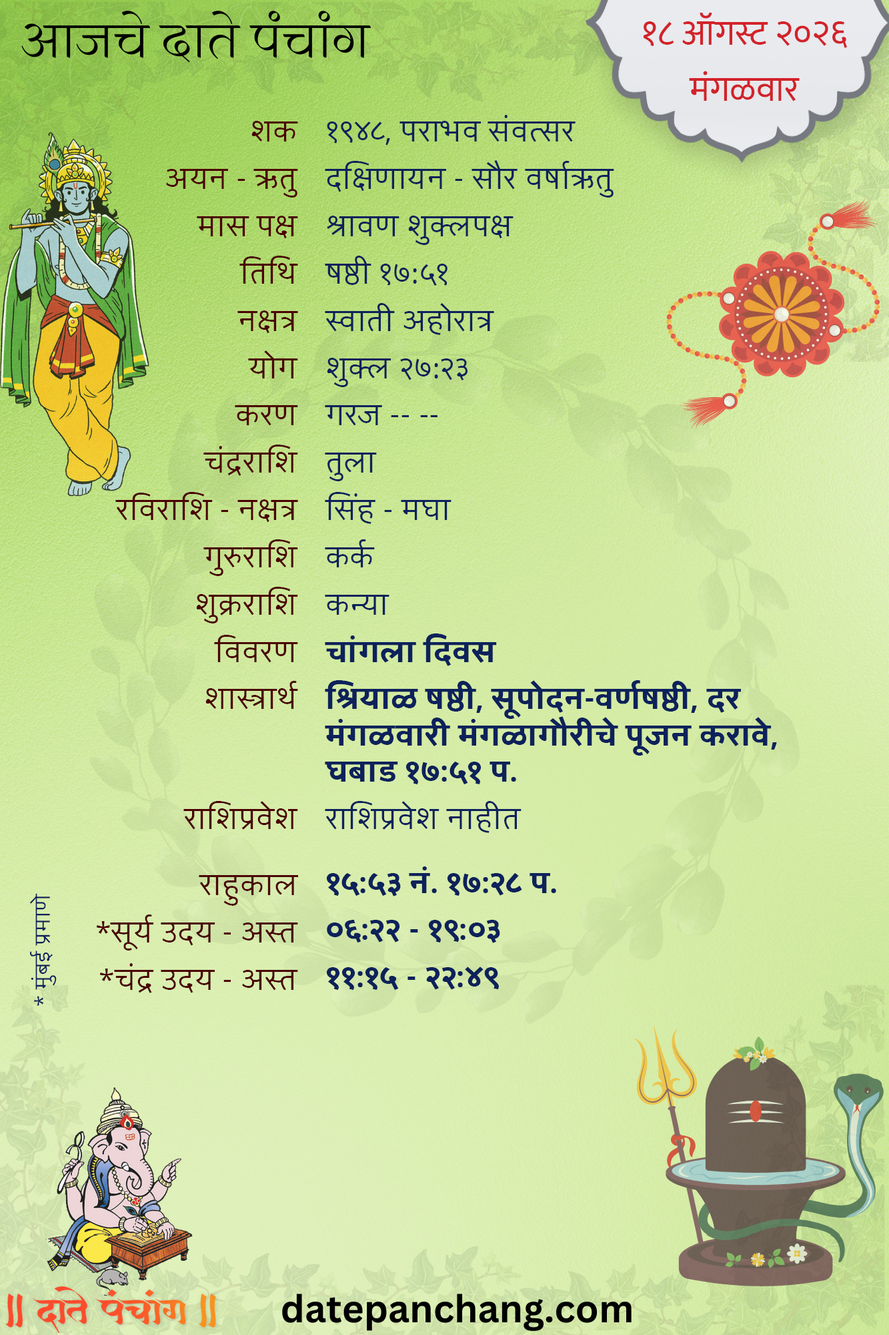
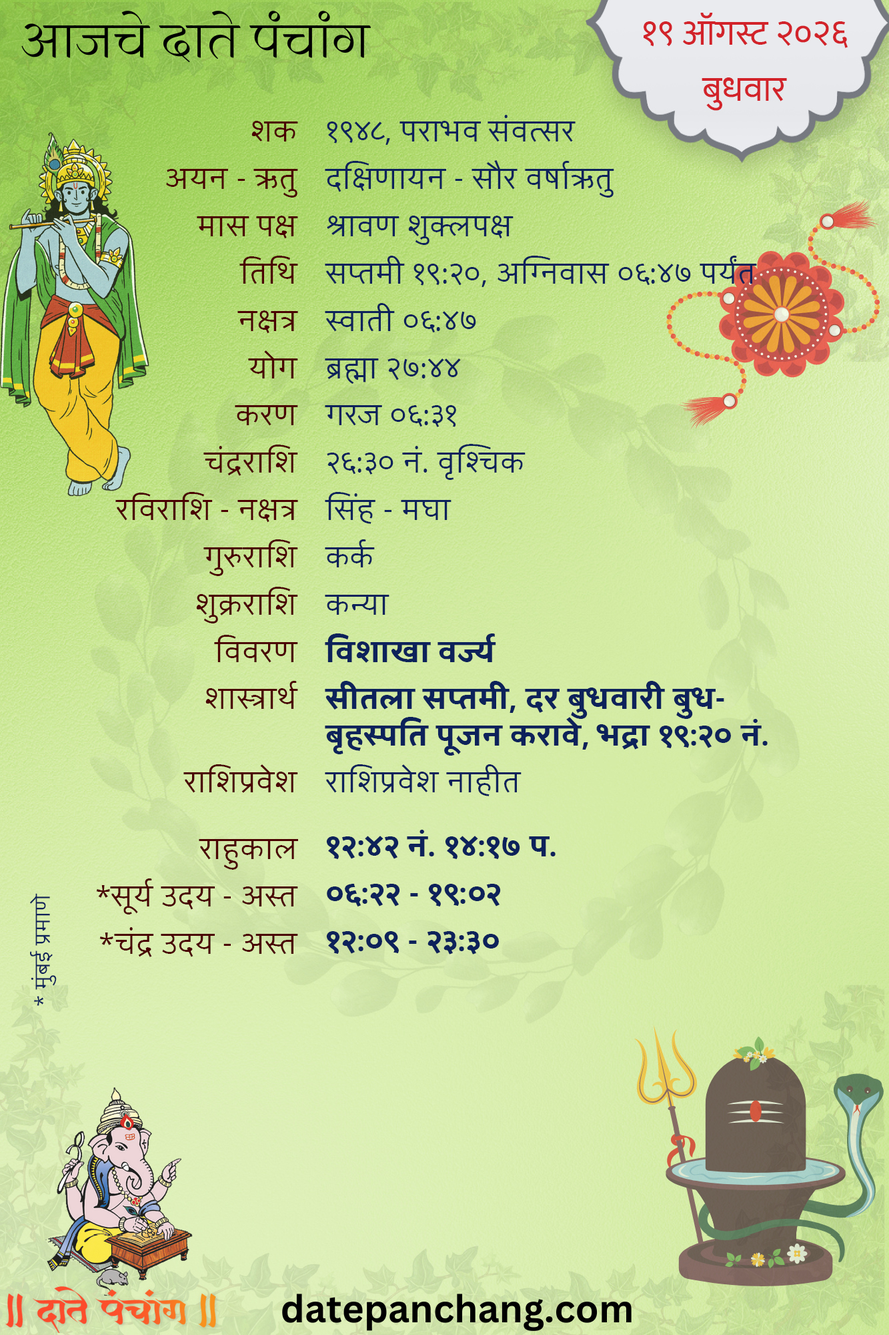
Automated commit by GitHub Actions

diff --git a/panchang.html b/panchang.html
@@ -18,7 +18,7 @@
         }
 
         body {
-            background-image: url('images/red.jpg');
+            background-image: url('images/green.jpg');
             background-size: cover;
             background-position: center;
             background-attachment: fixed;
@@ -239,7 +239,7 @@
 
     <div class="main-container">
         <div class="date-header">
-            18 Aug 2026
+            19 Aug 2026
         </div>
         
         <div class="panchang-grid">
@@ -248,7 +248,7 @@
                 <span class="panchang-icon">📅</span>
                 <div class="panchang-text">
                     <span class="panchang-label">वार:</span>
-                    <span class="panchang-value">मंगलवार</span>
+                    <span class="panchang-value">बुधवार</span>
                 </div>
             </div>
         
@@ -256,7 +256,7 @@
                 <span class="panchang-icon">📜</span>
                 <div class="panchang-text">
                     <span class="panchang-label">संवत:</span>
-                    <span class="panchang-value">1948 पराभव, शक संवत, ज्येष्ठ, शुक्ल पक्ष, षष्ठी</span>
+                    <span class="panchang-value">1948 पराभव, शक संवत, ज्येष्ठ, शुक्ल पक्ष, सप्तमी</span>
                 </div>
             </div>
         
@@ -264,7 +264,7 @@
                 <span class="panchang-icon">🌓</span>
                 <div class="panchang-text">
                     <span class="panchang-label">तिथी:</span>
-                    <span class="panchang-value">षष्ठी - 17:50 तक | सप्तमी</span>
+                    <span class="panchang-value">सप्तमी - 19:19 तक | अष्टमी</span>
                 </div>
             </div>
         
@@ -288,7 +288,7 @@
                 <span class="panchang-icon">✨</span>
                 <div class="panchang-text">
                     <span class="panchang-label">नक्षत्र:</span>
-                    <span class="panchang-value">स्वाती - पूर्ण रात्रि तक</span>
+                    <span class="panchang-value">स्वाती - 06:46 तक</span>
                 </div>
             </div>
         
@@ -296,7 +296,7 @@
                 <span class="panchang-icon">🌗</span>
                 <div class="panchang-text">
                     <span class="panchang-label">करण:</span>
-                    <span class="panchang-value">गर - पूर्ण रात्रि तक |  </span>
+                    <span class="panchang-value">गर - 06:30 तक | वणिज - 19:19 तक</span>
                 </div>
             </div>
         
@@ -304,7 +304,7 @@
                 <span class="panchang-icon">🧘</span>
                 <div class="panchang-text">
                     <span class="panchang-label">योग:</span>
-                    <span class="panchang-value">शुक्ल - 03:23, अगस्त 19 तक</span>
+                    <span class="panchang-value">ब्रह्म - 03:44, अगस्त 20 तक</span>
                 </div>
             </div>
         
@@ -312,7 +312,7 @@
                 <span class="panchang-icon">♋</span>
                 <div class="panchang-text">
                     <span class="panchang-label">राशी:</span>
-                    <span class="panchang-value">तुला</span>
+                    <span class="panchang-value">तुला - 02:30, अगस्त 20 तक</span>
                 </div>
             </div>
         
@@ -320,7 +320,7 @@
                 <span class="panchang-icon">⏳</span>
                 <div class="panchang-text">
                     <span class="panchang-label">दिनमान:</span>
-                    <span class="panchang-value">12 घण्टे 43 मिनट्स 56 सेकण्ड्स</span>
+                    <span class="panchang-value">12 घण्टे 42 मिनट्स 58 सेकण्ड्स</span>
                 </div>
             </div>
         
@@ -328,7 +328,7 @@
                 <span class="panchang-icon">🚫</span>
                 <div class="panchang-text">
                     <span class="panchang-label">राहू काळ:</span>
-                    <span class="panchang-value">12:17 से 13:08</span>
+                    <span class="panchang-value">04:50 से 05:35</span>
                 </div>
             </div>
         
@@ -336,7 +336,7 @@
                 <span class="panchang-icon">⭐</span>
                 <div class="panchang-text">
                     <span class="panchang-label">दिनविशेष:</span>
-                    <span class="panchang-value">चांगला दिवस</span>
+                    <span class="panchang-value">no details available</span>
                 </div>
             </div>
         
